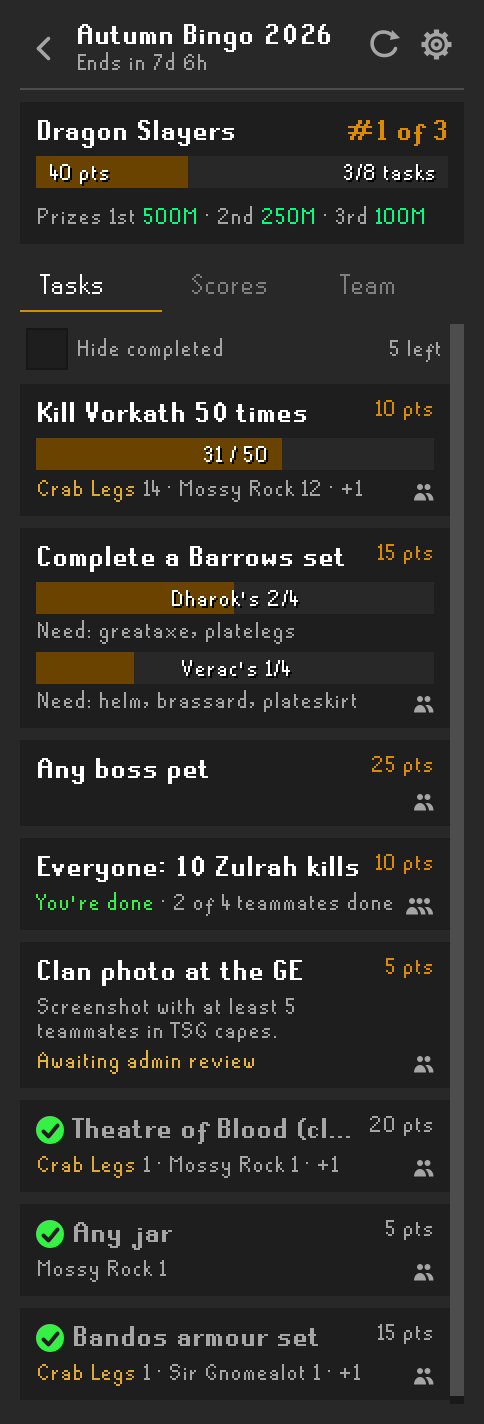
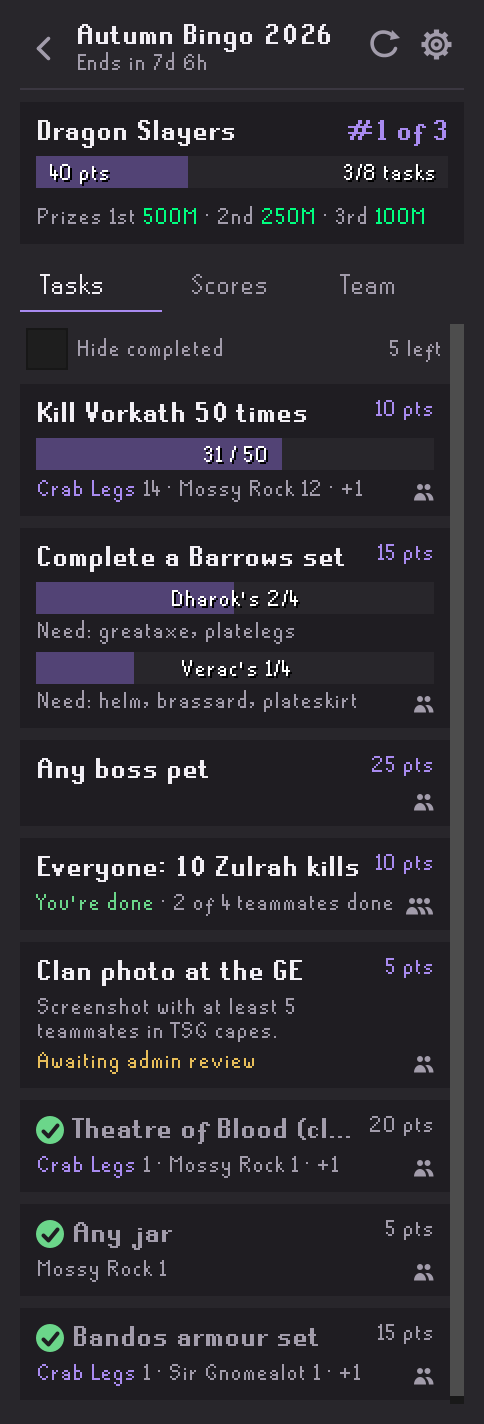
feat(ui): ancient violet theme

diff --git a/src/main/java/com/tsghub/TsgHubTheme.java b/src/main/java/com/tsghub/TsgHubTheme.java
@@ -9,28 +9,29 @@ import javax.swing.JComponent;
 import javax.swing.JLabel;
 import javax.swing.ToolTipManager;
 import javax.swing.border.Border;
-import net.runelite.client.ui.ColorScheme;
 import net.runelite.client.ui.FontManager;
+import net.runelite.client.ui.components.materialtabs.MaterialTab;
+import net.runelite.client.ui.components.materialtabs.MaterialTabGroup;
 import net.runelite.client.util.ColorUtil;
 
 public final class TsgHubTheme
 {
-	public static final Color BACKGROUND = ColorScheme.DARK_GRAY_COLOR;
-	public static final Color CARD = ColorScheme.DARKER_GRAY_COLOR;
-	public static final Color CARD_HOVER = ColorScheme.DARKER_GRAY_HOVER_COLOR;
-	public static final Color BORDER = ColorScheme.MEDIUM_GRAY_COLOR;
-	public static final Color ACCENT = ColorScheme.BRAND_ORANGE;
-	public static final Color TEXT = Color.WHITE;
-	public static final Color MUTED = ColorScheme.LIGHT_GRAY_COLOR;
-	public static final Color DIM = new Color(106, 106, 106);
-	public static final Color SUCCESS = ColorScheme.PROGRESS_COMPLETE_COLOR;
-	public static final Color ERROR = ColorScheme.PROGRESS_ERROR_COLOR;
-	public static final Color WARNING = new Color(230, 180, 60);
+	public static final Color BACKGROUND = new Color(0x28262B);
+	public static final Color CARD = new Color(0x1F1D22);
+	public static final Color CARD_HOVER = new Color(0x2E2B33);
+	public static final Color BORDER = new Color(0x3B3741);
+	public static final Color ACCENT = new Color(0xA98BF0);
+	public static final Color TEXT = new Color(0xF2EFF5);
+	public static final Color MUTED = new Color(0xA29CAB);
+	public static final Color DIM = new Color(0x6C6774);
+	public static final Color SUCCESS = new Color(0x6BD68A);
+	public static final Color ERROR = new Color(0xE86060);
+	public static final Color WARNING = new Color(0xE8BE5A);
 
-	public static final Color SELF_CARD = new Color(43, 36, 22);
-	public static final Color SELF_CARD_HOVER = new Color(53, 45, 28);
-	public static final Color SELF_BORDER = new Color(122, 82, 8);
-	public static final Color SELF_TEXT = new Color(224, 168, 46);
+	public static final Color SELF_CARD = new Color(0x2A2238);
+	public static final Color SELF_CARD_HOVER = new Color(0x342A45);
+	public static final Color SELF_BORDER = new Color(0x664C9E);
+	public static final Color SELF_TEXT = ACCENT;
 
 	public static final int GAP_XS = 3;
 	public static final int GAP_S = 4;
@@ -127,5 +128,28 @@ public final class TsgHubTheme
 	public static String selfName(String escapedName)
 	{
 		return "<font color='" + ColorUtil.toHexColor(SELF_TEXT) + "'>" + escapedName + "</font>";
+	}
+
+	public static MaterialTab themedTab(String name, MaterialTabGroup group, JComponent content)
+	{
+		return new MaterialTab(name, group, content)
+		{
+			@Override
+			public boolean select()
+			{
+				if (!super.select()) return false;
+				setBorder(BorderFactory.createCompoundBorder(BorderFactory.createMatteBorder(0, 0, 1, 0, ACCENT),
+					BorderFactory.createEmptyBorder(5, 10, 4, 10)));
+				setForeground(TEXT);
+				return true;
+			}
+
+			@Override
+			public void unselect()
+			{
+				super.unselect();
+				setForeground(MUTED);
+			}
+		};
 	}
 }

diff --git a/src/main/java/com/tsghub/TsgHubSidebarPanel.java b/src/main/java/com/tsghub/TsgHubSidebarPanel.java
@@ -64,8 +64,8 @@ final class TsgHubSidebarPanel extends PluginPanel
 	private static final int MAX_WARNING_LENGTH = 300;
 	private static final int MAX_PAST_WARNINGS = 3;
 	private static final int[] EXPIRY_DAYS = {30, 90, 0};
-	private static final Color TIP_CARD = new Color(42, 42, 42);
-	private static final Color DIM_BAR = new Color(68, 68, 68);
+	private static final Color TIP_CARD = new Color(0x2E2B33);
+	private static final Color DIM_BAR = new Color(0x3B3741);
 	private static final DateTimeFormatter WARNING_DAY = DateTimeFormatter.ofPattern("d MMM", java.util.Locale.ENGLISH);
 	private static final DateTimeFormatter WARNING_DAY_YEAR = DateTimeFormatter.ofPattern("d MMM yyyy", java.util.Locale.ENGLISH);
 	private static final int CARD_TITLE_W = 150;
@@ -294,10 +294,10 @@ final class TsgHubSidebarPanel extends PluginPanel
 		MaterialTabGroup tabs = new MaterialTabGroup(display);
 		tabs.setLayout(new GridLayout(1, 3, 4, 0));
 		tabs.setOpaque(false);
-		MaterialTab tasks = new MaterialTab("Tasks", tabs, scroll(tasksTab));
+		MaterialTab tasks = themedTab("Tasks", tabs, scroll(tasksTab));
 		tabs.addTab(tasks);
-		tabs.addTab(new MaterialTab("Scores", tabs, scroll(scoreboardTab)));
-		tabs.addTab(new MaterialTab("Team", tabs, scroll(teamTab)));
+		tabs.addTab(themedTab("Scores", tabs, scroll(scoreboardTab)));
+		tabs.addTab(themedTab("Team", tabs, scroll(teamTab)));
 		tabs.select(tasks);
 
 		JPanel north = stack();

diff --git a/src/main/java/com/tsghub/group/ui/PartyStyle.java b/src/main/java/com/tsghub/group/ui/PartyStyle.java
@@ -6,8 +6,8 @@ import java.awt.Color;
 public final class PartyStyle
 {
 	public static final Color LOW = new Color(255, 90, 74);
-	public static final Color SLOT = new Color(20, 20, 20);
-	public static final Color DIVIDER = new Color(58, 48, 32);
+	public static final Color SLOT = new Color(0x18161B);
+	public static final Color DIVIDER = TsgHubTheme.BORDER;
 	public static final Color PRAYER_ACTIVE = new Color(90, 67, 18);
 	public static final Color PRAYER_ACTIVE_BORDER = new Color(200, 144, 42);
 

diff --git a/src/main/java/com/tsghub/group/ui/PlayerPanel.java b/src/main/java/com/tsghub/group/ui/PlayerPanel.java
@@ -187,7 +187,7 @@ public class PlayerPanel extends JPanel
 
 	private void addTab(MaterialTabGroup group, String name, JComponent content, Tab tab)
 	{
-		MaterialTab materialTab = new MaterialTab(name, group, content);
+		MaterialTab materialTab = TsgHubTheme.themedTab(name, group, content);
 		materialTab.setFont(TsgHubTheme.smallFont());
 		materialTab.setOnSelectEvent(() -> {
 			selected = tab;

diff --git a/src/test/java/com/tsghub/DropsPanelTest.java b/src/test/java/com/tsghub/DropsPanelTest.java
@@ -86,7 +86,7 @@ public class DropsPanelTest
 	public void coinColor()
 	{
 		assertEquals(new Color(255, 255, 0), TsgHubUi.coinColor(99_999));
-		assertEquals(Color.WHITE, TsgHubUi.coinColor(803_300));
+		assertEquals(TsgHubTheme.TEXT, TsgHubUi.coinColor(803_300));
 		assertEquals(new Color(0, 255, 128), TsgHubUi.coinColor(10_000_000));
 	}
 

diff --git a/src/main/java/com/tsghub/TsgHubPanel.java b/src/main/java/com/tsghub/TsgHubPanel.java
@@ -382,7 +382,7 @@ final class TsgHubPanel extends JPanel
 
 	private MaterialTab tab(String name, JComponent content)
 	{
-		MaterialTab tab = new MaterialTab(name, tabs, scroll(content));
+		MaterialTab tab = themedTab(name, tabs, scroll(content));
 		tabs.addTab(tab);
 		return tab;
 	}
